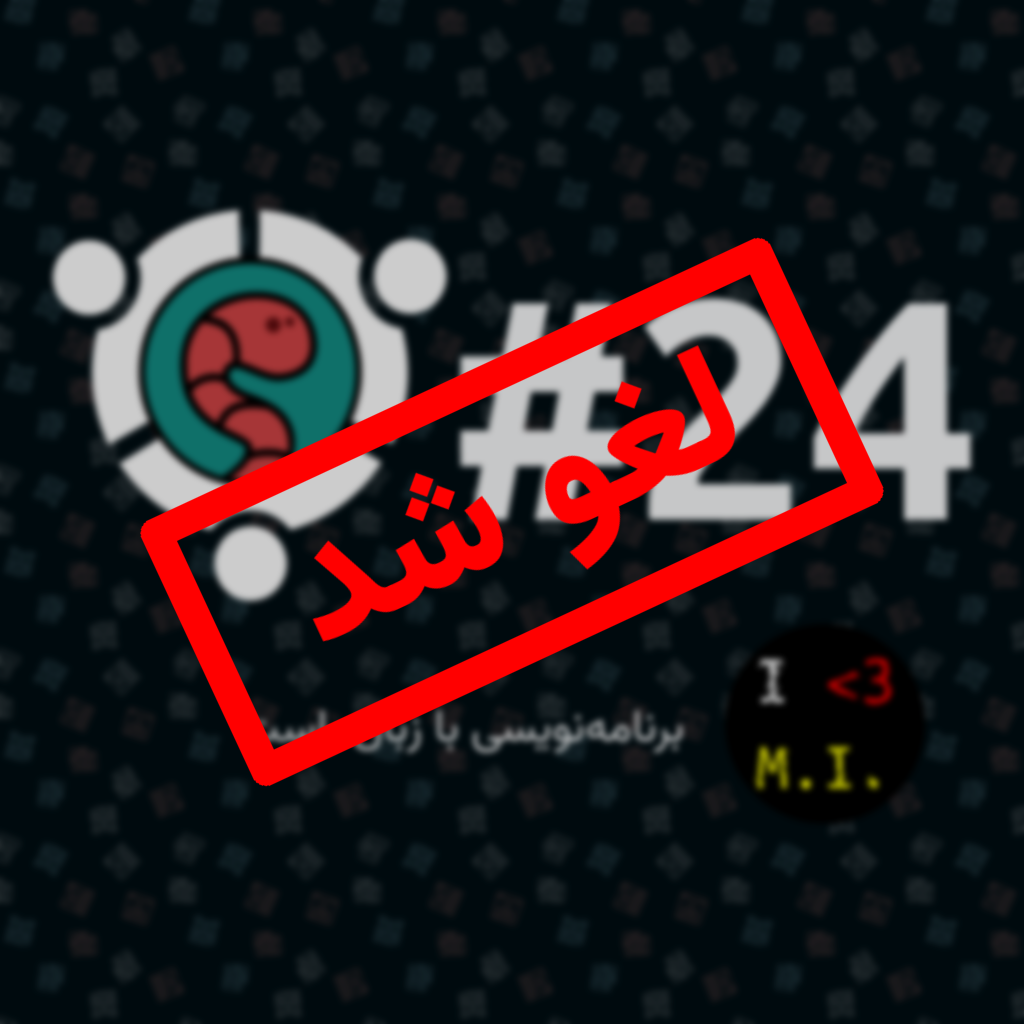
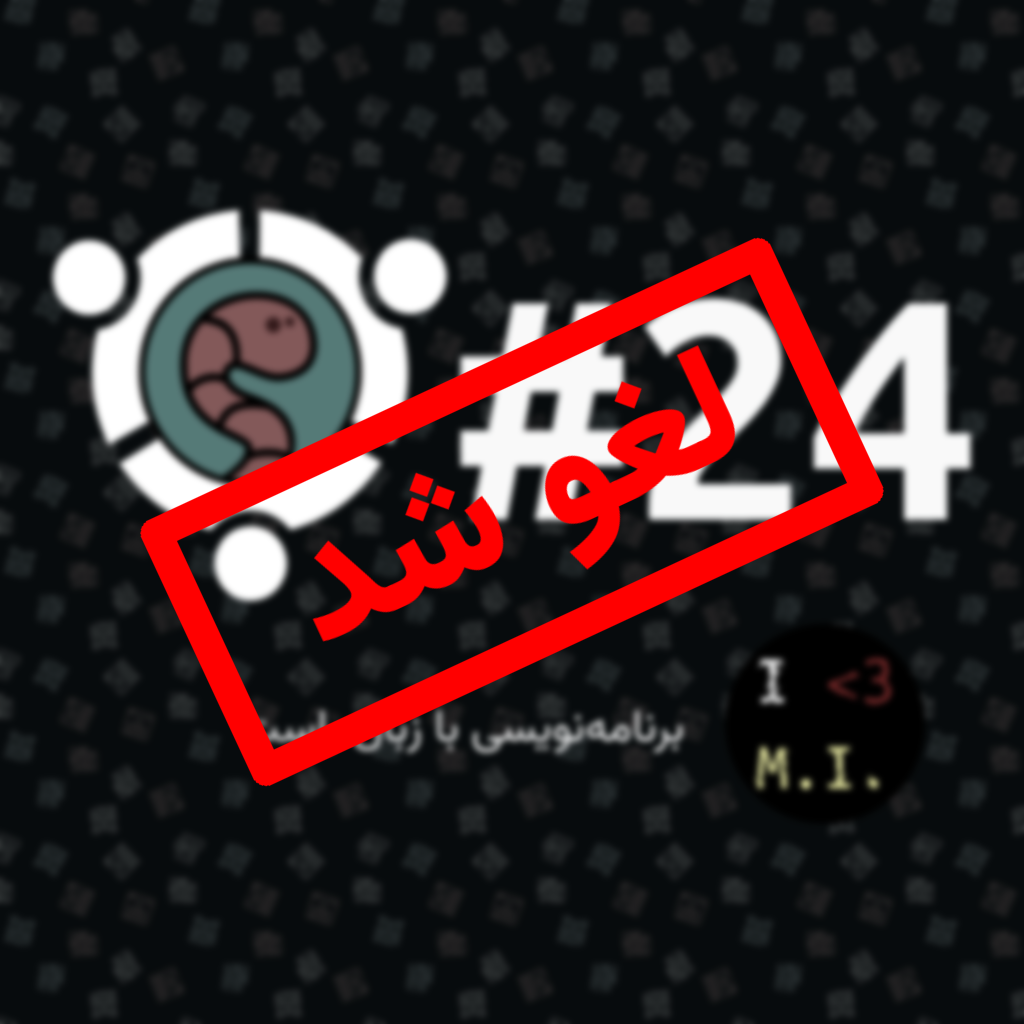
deploy: dc52e2df1c5eba3d9844ca407e315f9044f4108b

diff --git a/24/preview.css b/24/preview.css
@@ -25,6 +25,5 @@ html, body{
     top: 0;
     left: 0;
     z-index: 10;
-    backdrop-filter: blur(3px);
-    background-color: rgba(0,0,0,0.2);
+    backdrop-filter: blur(3px) grayscale(70%);
 }

diff --git a/preview.css b/preview.css
@@ -25,6 +25,5 @@ html, body{
     top: 0;
     left: 0;
     z-index: 10;
-    backdrop-filter: blur(3px);
-    background-color: rgba(0,0,0,0.2);
+    backdrop-filter: blur(3px) grayscale(70%);
 }

diff --git a/24/style.css b/24/style.css
@@ -5,8 +5,7 @@ html{
 }
 
 html, body {
-    min-height: 100%;
-    min-height: 100%;
+    min-height: 100vh;
 }
 *{
     box-sizing: border-box;

diff --git a/style.css b/style.css
@@ -5,8 +5,7 @@ html{
 }
 
 html, body {
-    min-height: 100%;
-    min-height: 100%;
+    min-height: 100vh;
 }
 *{
     box-sizing: border-box;
